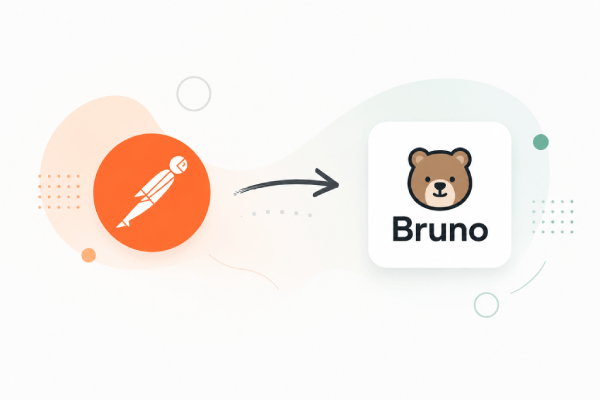
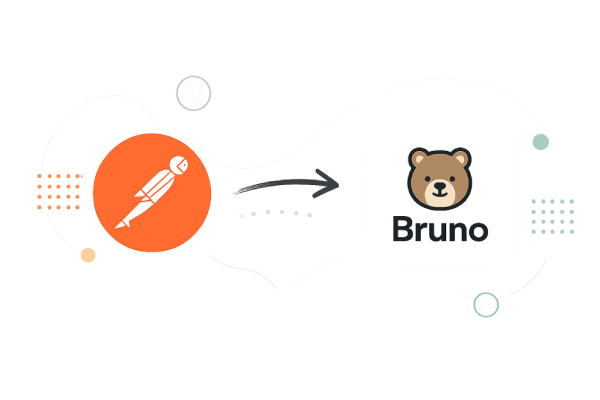
fix: transparent card image

diff --git a/fa/automation/bruno-api-client-postman-alternative/content.md b/fa/automation/bruno-api-client-postman-alternative/content.md
@@ -79,6 +79,76 @@ test("بررسی وضعیت پاسخ", function () {
 });
 ```
 
+## سازگاری با گیت؛ مهمترین تفاوت برونو
+
+اگر بخواهیم فقط یک دلیل برای انتخاب برونو نام ببریم، احتمالاً همین سازگاری با گیت است.
+
+در بسیاری از پروژهها، درخواستهای API هم مانند کد برنامه بخشی از پروژه هستند و بهتر است کنار همان کد نگهداری شوند. برونو دقیقاً با همین نگاه طراحی شده است.
+
+در پستمن معمولاً یک مجموعه از درخواستها داخل یک فایل بزرگ ذخیره میشود. با بزرگتر شدن پروژه، این فایل نیز بزرگتر میشود و هر تغییری در یکی از درخواستها باعث تغییر همان فایل اصلی خواهد شد. در نتیجه هنگام بازبینی تغییرات یا ادغام شاخهها، ممکن است چند نفر همزمان روی یک فایل کار کرده باشند و تداخل ایجاد شود.
+
+برونو مسیر متفاوتی را انتخاب کرده است. هر درخواست API در یک فایل مستقل ذخیره میشود و پوشهها نیز دقیقاً مطابق ساختار پروژه شکل میگیرند. برای مثال اگر در پروژه پوشهای به نام `users` داشته باشید، درخواستهای مربوط به کاربران نیز در همان پوشه قرار میگیرند و هر درخواست فایل مخصوص خود را خواهد داشت.
+
+به همین دلیل:
+
+* هر تغییر فقط همان فایل را تغییر میدهد.
+* بازبینی تغییرات در گیت سادهتر است.
+* احتمال تداخل هنگام ادغام شاخهها کمتر میشود.
+* جابهجایی یا تغییر ساختار پوشهها مانند سایر فایلهای پروژه انجام میشود.
+* درخواستهای API میتوانند همراه با کد مربوط به همان بخش نسخهبندی شوند.
+
+در عمل، بسیاری از تیمها پوشه درخواستهای برونو را در کنار کد پروژه قرار میدهند و همانند سایر فایلهای پروژه آن را در گیت مدیریت میکنند.
+
+
+## ساختار فایلهای برونو
+
+برونو اطلاعات هر درخواست را بهصورت فایل متنی ذخیره میکند. این فایلها هم برای انسان قابل خواندن هستند و هم بهراحتی در گیت قابل مقایسهاند.
+
+برونو از چند قالب برای کار با APIها پشتیبانی میکند که مهمترین آنها قالب اختصاصی خود برونو و قالب OpenAPI است.
+
+### قالب اختصاصی برونو
+
+قالب اصلی برونو از یک نگارش ساده و خوانا استفاده میکند که برای ویرایش دستی طراحی شده است. هر درخواست در یک فایل مستقل با پسوند `.bru` ذخیره میشود.
+
+نمونه:
+
+```text
+meta {
+  name: Get Users
+  type: http
+}
+
+get {
+  url: {{baseUrl}}/users
+}
+
+headers {
+  Authorization: Bearer {{token}}
+}
+```
+
+ساختار این فایلها بهگونهای است که حتی بدون اجرای برونو نیز میتوان آنها را در یک ویرایشگر متن مشاهده، ویرایش و در گیت بازبینی کرد.
+
+### قالب OpenAPI
+
+اگر پروژه شما از OpenAPI استفاده میکند، برونو میتواند مشخصات API را نیز از فایلهای OpenAPI وارد کند. این فایلها معمولاً با قالب YAML نوشته میشوند و برای مستندسازی و تبادل مشخصات API بین ابزارهای مختلف کاربرد دارند.
+
+نمونهای از یک مسیر در OpenAPI:
+
+```yaml
+openapi: 3.1.0
+
+paths:
+  /users:
+    get:
+      summary: دریافت فهرست کاربران
+      responses:
+        "200":
+          description: موفق
+```
+
+در عمل، بسیاری از تیمها مستندات API را بهصورت OpenAPI نگهداری میکنند و برای توسعه و تست روزانه از فایلهای `.bru` استفاده میکنند. این ترکیب باعث میشود هم مستندات استاندارد API حفظ شوند و هم درخواستهای قابل اجرا بهصورت فایلهای مستقل و سازگار با گیت در کنار کد پروژه قرار بگیرند.
+
 
 ## جمعبندی
 
